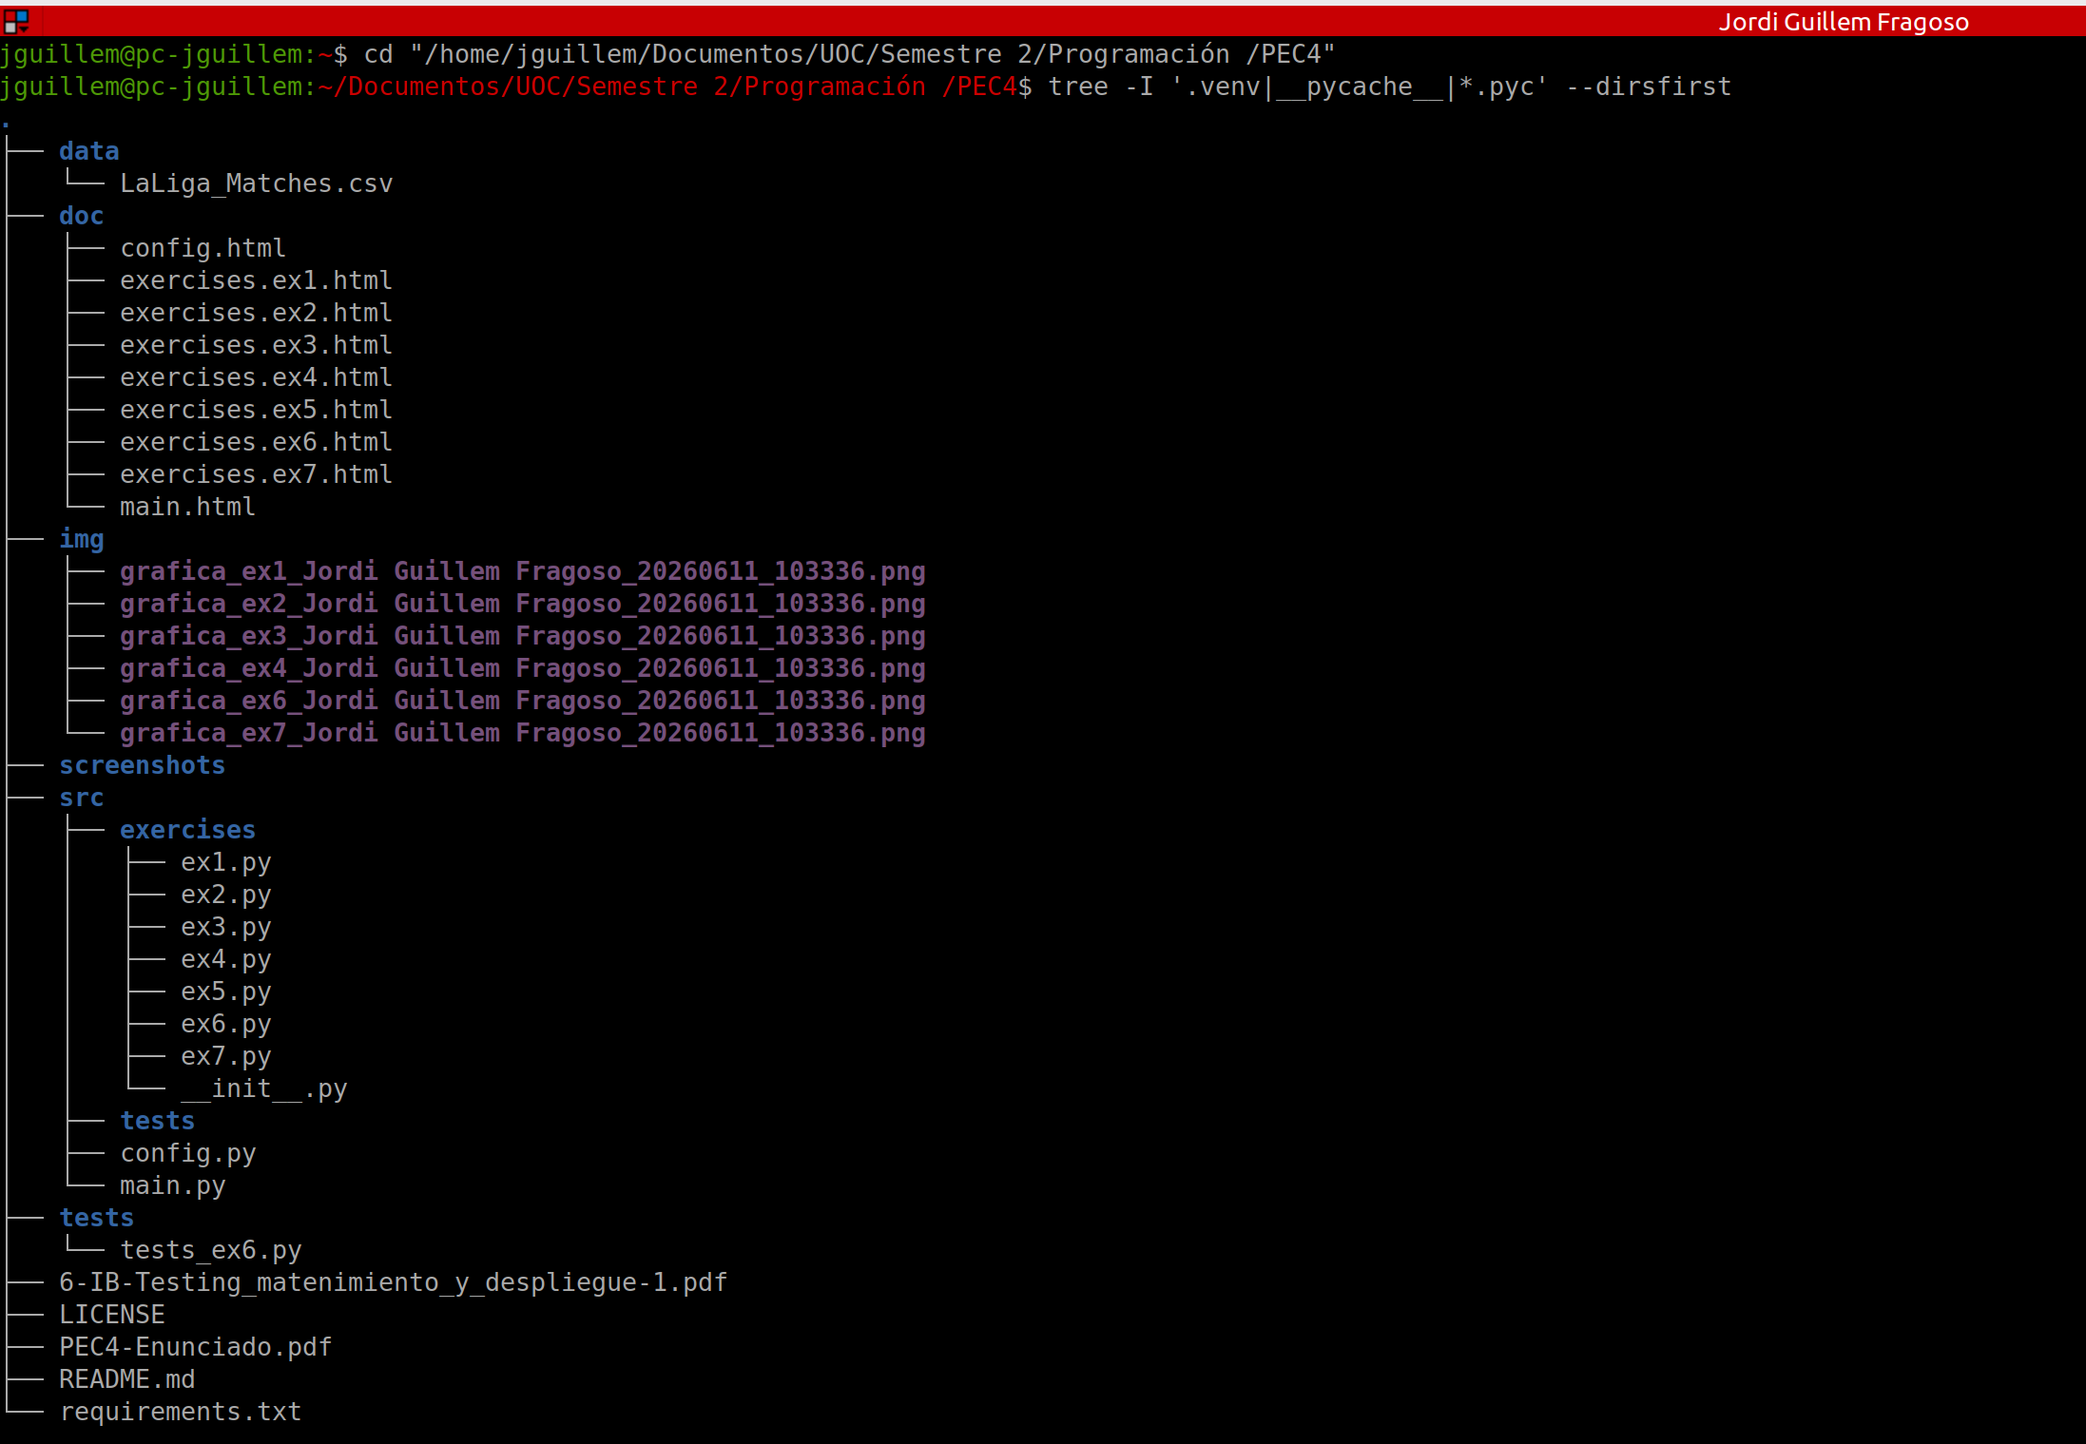
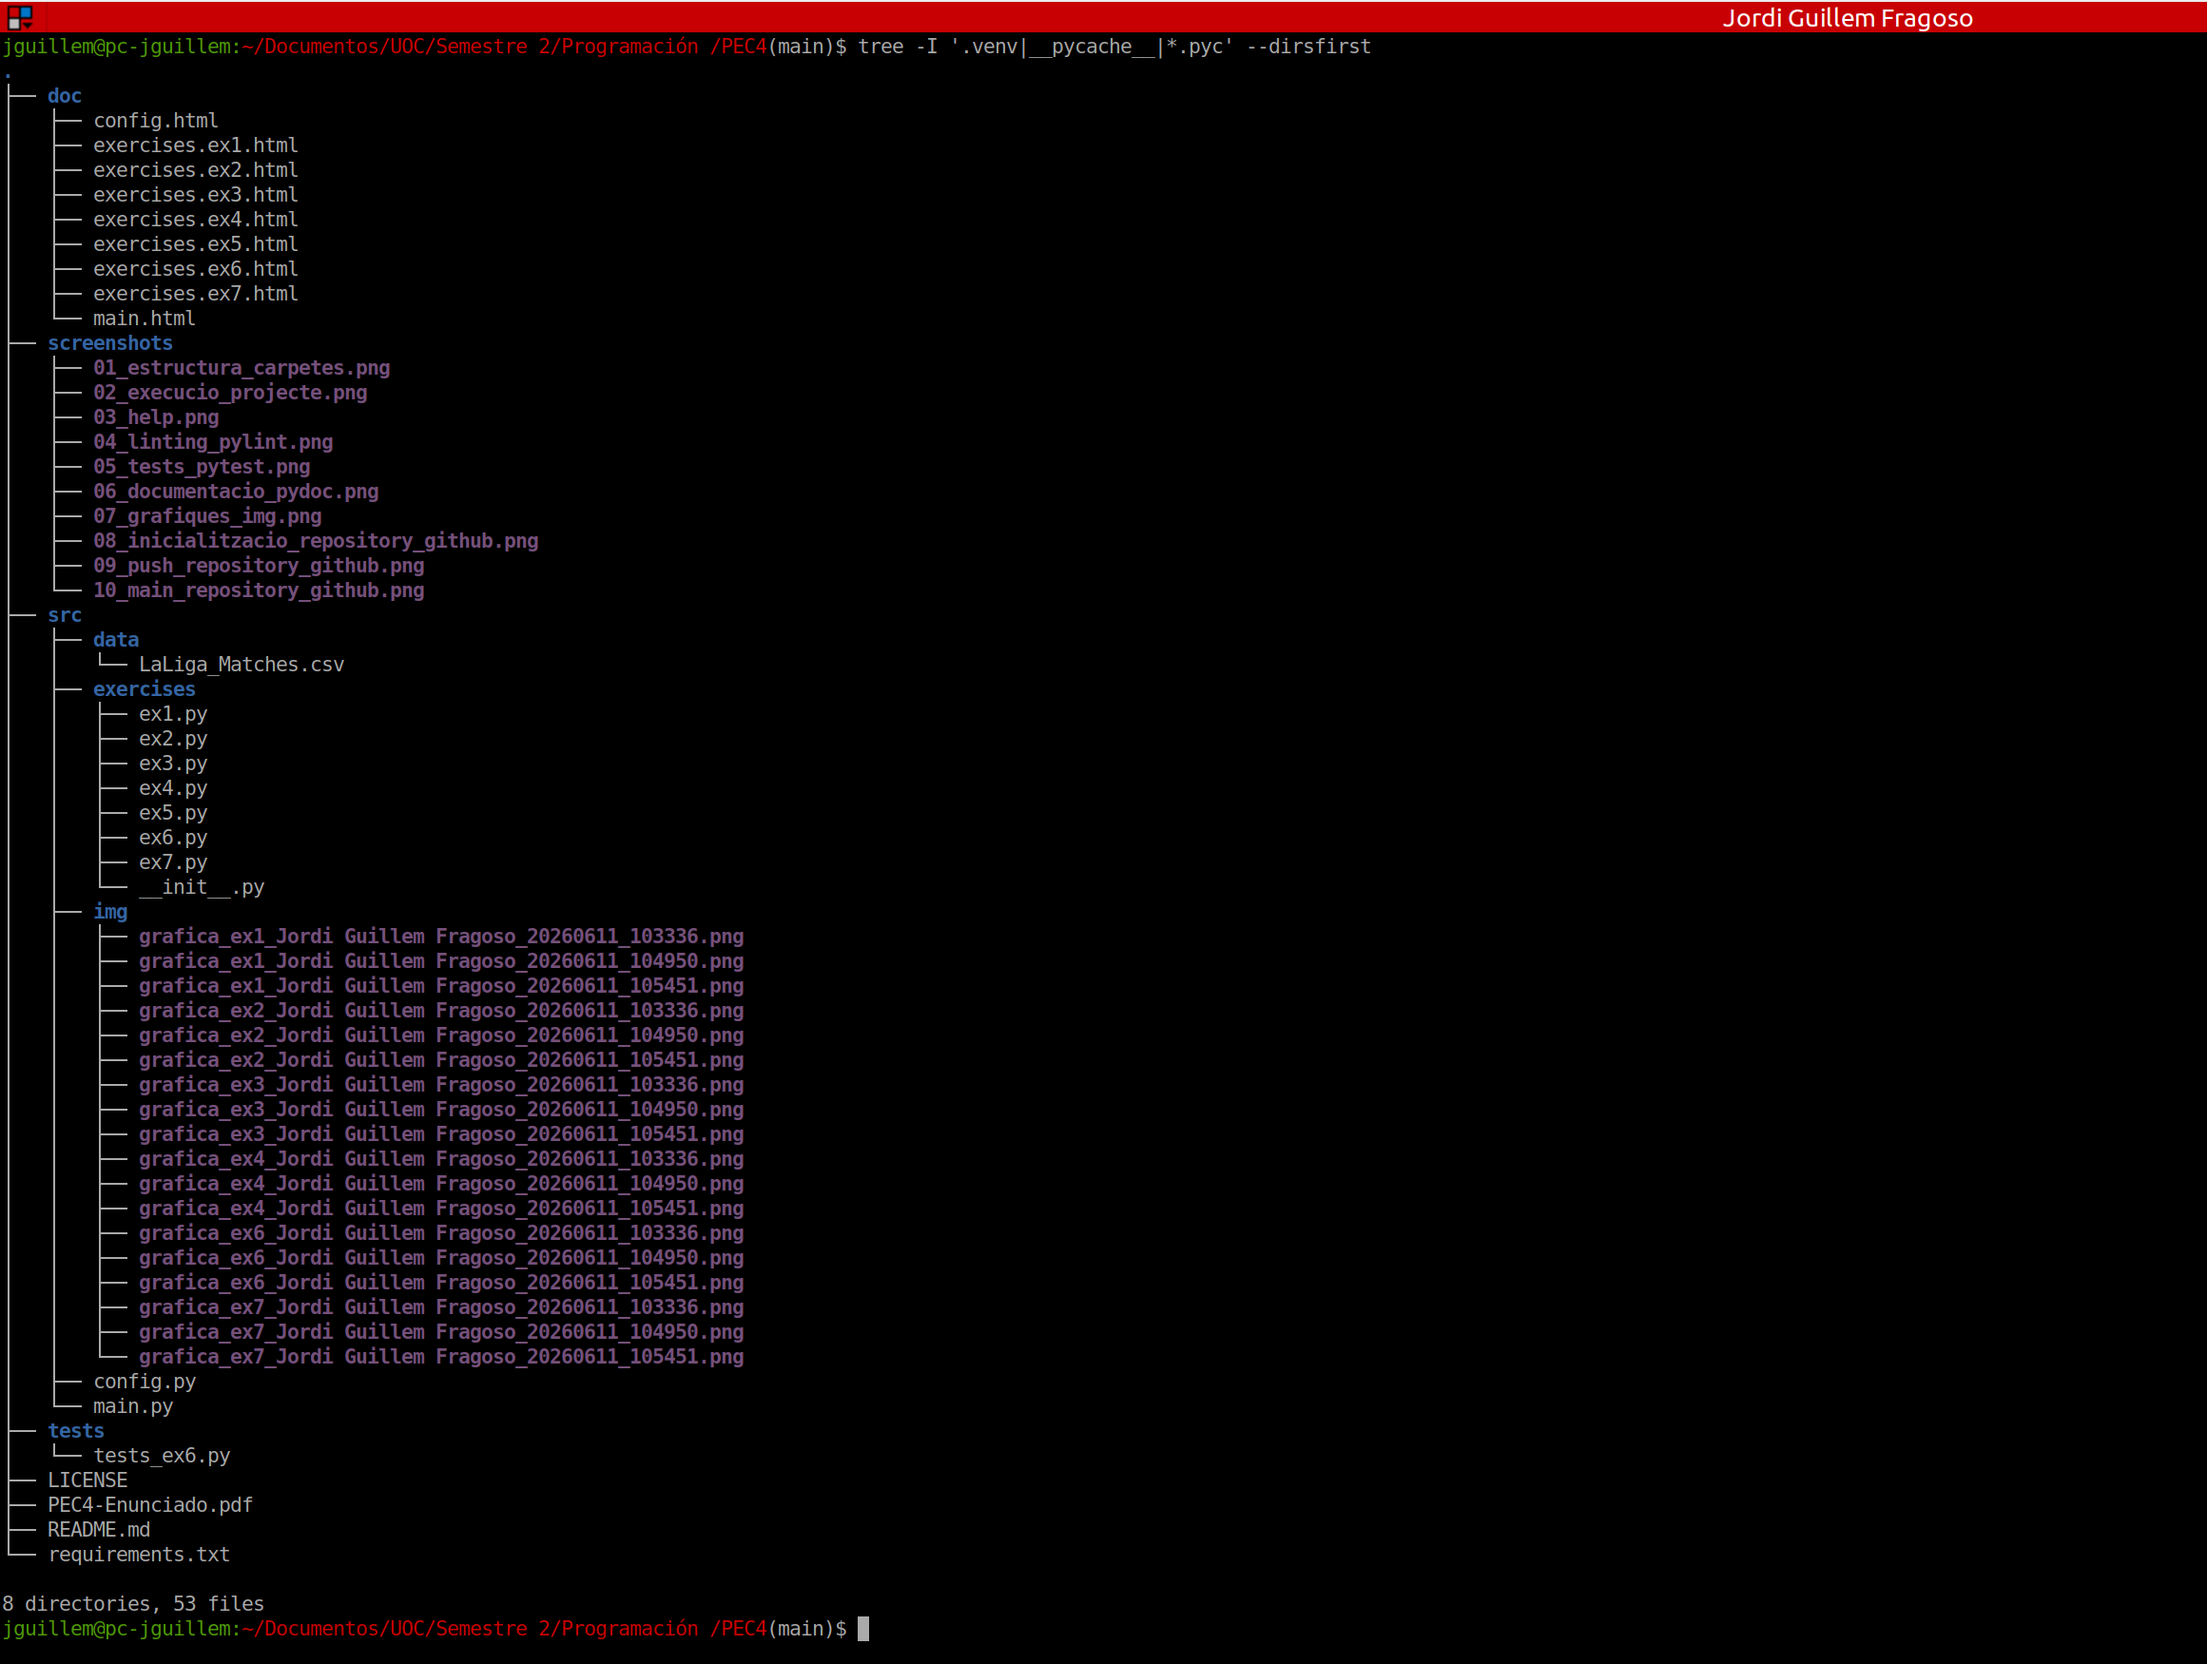
canvi de lloc de les carpetes img i data

Changed region(s): [[0.0, 0.0, 1.0, 0.9901]]

diff --git a/src/exercises/ex6.py b/src/exercises/ex6.py
@@ -7,9 +7,11 @@ Funcions:
     fun_summary_1996_2025(total_pts, home_goals, away_goals, total_goals) -> pd.DataFrame
     podium(summary_df) -> None
 """
+import os
 import pandas as pd
 import matplotlib.pyplot as plt
 import config
+
 
 
 def fun_total_goals(data: pd.DataFrame) -> tuple[int, int, int]:
@@ -129,7 +131,8 @@ def podium(summary_1996_2025: pd.DataFrame) -> None:
     ax.set_yticks([])
     ax.set_title("Pòdium La Liga 1995‑2025", fontsize=14)
     plt.tight_layout()
-    plt.savefig(
-        f"img/grafica_ex6_{config.nom_alumne}_{config.date_time}.png"
-    )
+
+    ruta_base = os.path.dirname(__file__)
+    nombre_img = f"grafica_ex6_{config.nom_alumne}_{config.date_time}.png"
+    plt.savefig(os.path.join(ruta_base, "..", "img", nombre_img))
     plt.show()

diff --git a/src/exercises/ex2.py b/src/exercises/ex2.py
@@ -5,9 +5,11 @@ Funcions:
     total_matches(data) -> pd.DataFrame
     plot_matches_team_total(matches_team_total) -> None
 """
+import os
 import pandas as pd
 import matplotlib.pyplot as plt
 import config
+
 
 
 def total_matches(data: pd.DataFrame) -> pd.DataFrame:
@@ -43,7 +45,8 @@ def plot_matches_team_total(matches_team_total: pd.DataFrame) -> None:
     ax.set_ylabel("Nombre de partits")
     plt.xticks(rotation=45, ha="right")
     plt.tight_layout()
-    plt.savefig(
-        f"img/grafica_ex2_{config.nom_alumne}_{config.date_time}.png"
-    )
+
+    ruta_base = os.path.dirname(__file__)
+    nombre_img = f"grafica_ex2_{config.nom_alumne}_{config.date_time}.png"
+    plt.savefig(os.path.join(ruta_base, "..", "img", nombre_img))
     plt.show()

diff --git a/src/main.py b/src/main.py
@@ -11,13 +11,13 @@ Per exemple, ``-ex 5`` executa els exercicis 1 al 5.
 import argparse
 import os
 import sys
-
-sys.path.insert(0, os.path.dirname(__file__))
-
 import config
 from exercises import ex1, ex2, ex3, ex4, ex5, ex6, ex7
 
-DATA_FILE = os.path.join(os.path.dirname(__file__), "..", "data", "LaLiga_Matches.csv")
+sys.path.insert(0, os.path.dirname(__file__))
+
+
+DATA_FILE = os.path.join(os.path.dirname(__file__), "data", "LaLiga_Matches.csv")
 
 
 def parse_args() -> argparse.Namespace:
@@ -46,7 +46,7 @@ def parse_args() -> argparse.Namespace:
     )
     return parser.parse_args()
 
-
+# pylint: disable=too-many-locals, too-many-statements
 def run(max_ex: int) -> None:
     """Executa seqüencialment els exercicis fins a ``max_ex``.
 

diff --git a/src/exercises/ex7.py b/src/exercises/ex7.py
@@ -4,6 +4,7 @@ ex7.py – Exercici 7: Graf de connexions entre els 5 millors equips.
 Funcions:
     graf(data, selected_teams) -> None
 """
+import os
 import pandas as pd
 import matplotlib.pyplot as plt
 import networkx as nx
@@ -56,7 +57,8 @@ def graf(data: pd.DataFrame, selected_teams: list[str]) -> None:
     ax.set_title("Graf de partits entre els 5 millors equips (1995‑2025)", fontsize=13)
     ax.axis("off")
     plt.tight_layout()
-    plt.savefig(
-        f"img/grafica_ex7_{config.nom_alumne}_{config.date_time}.png"
-    )
+
+    ruta_base = os.path.dirname(__file__)
+    nombre_img = f"grafica_ex7_{config.nom_alumne}_{config.date_time}.png"
+    plt.savefig(os.path.join(ruta_base, "..", "img", nombre_img))
     plt.show()

diff --git a/src/exercises/ex4.py b/src/exercises/ex4.py
@@ -5,9 +5,11 @@ Funcions:
     ftr(data) -> pd.DataFrame
     plot_ftr(ftr_df) -> None
 """
+import os
 import pandas as pd
 import matplotlib.pyplot as plt
 import config
+
 
 
 def ftr(data: pd.DataFrame) -> pd.DataFrame:
@@ -43,7 +45,8 @@ def plot_ftr(ftr_df: pd.DataFrame) -> None:
     ax.set_ylabel("Nombre de partits")
     ax.set_xticklabels(ftr_df.index, rotation=0)
     plt.tight_layout()
-    plt.savefig(
-        f"img/grafica_ex4_{config.nom_alumne}_{config.date_time}.png"
-    )
+
+    ruta_base = os.path.dirname(__file__)
+    nombre_img = f"grafica_ex4_{config.nom_alumne}_{config.date_time}.png"
+    plt.savefig(os.path.join(ruta_base, "..", "img", nombre_img))
     plt.show()

diff --git a/src/exercises/ex3.py b/src/exercises/ex3.py
@@ -5,9 +5,11 @@ Funcions:
     goals_distribution(data) -> tuple[pd.DataFrame, pd.DataFrame]
     plot_goals_distribution(distr_goals_home, distr_goals_away) -> None
 """
+import os
 import pandas as pd
 import matplotlib.pyplot as plt
 import config
+
 
 
 def goals_distribution(
@@ -68,7 +70,8 @@ def plot_goals_distribution(
     axes[1].set_ylabel("Partits")
 
     plt.tight_layout()
-    plt.savefig(
-        f"img/grafica_ex3_{config.nom_alumne}_{config.date_time}.png"
-    )
+
+    ruta_base = os.path.dirname(__file__)
+    nombre_img = f"grafica_ex3_{config.nom_alumne}_{config.date_time}.png"
+    plt.savefig(os.path.join(ruta_base, "..", "img", nombre_img))
     plt.show()

diff --git a/src/exercises/ex1.py b/src/exercises/ex1.py
@@ -5,9 +5,11 @@ Funcions:
     load_and_eda(file) -> pd.DataFrame
     plot_home_away_goals(data) -> None
 """
+import os
 import pandas as pd
 import matplotlib.pyplot as plt
 import config
+
 
 
 def load_and_eda(file: str) -> pd.DataFrame:
@@ -54,7 +56,8 @@ def plot_home_away_goals(data: pd.DataFrame) -> None:
     axes[1].set_ylabel("Gols")
 
     plt.tight_layout()
-    plt.savefig(
-        f"img/grafica_ex1_{config.nom_alumne}_{config.date_time}.png"
-    )
+
+    ruta_base = os.path.dirname(__file__)
+    nombre_img = f"grafica_ex1_{config.nom_alumne}_{config.date_time}.png"
+    plt.savefig(os.path.join(ruta_base, "..", "img", nombre_img))
     plt.show()

diff --git a/src/config.py b/src/config.py
@@ -3,5 +3,5 @@ config.py – Variables globals del projecte PEC4.
 """
 from datetime import datetime
 
-nom_alumne = "Jordi Guillem Fragoso"  
-date_time = datetime.now().strftime('%Y%m%d_%H%M%S')
+nom_alumne = "Jordi Guillem Fragoso"    # pylint: disable=invalid-name
+date_time = datetime.now().strftime('%Y%m%d_%H%M%S')    # pylint: disable=invalid-name
